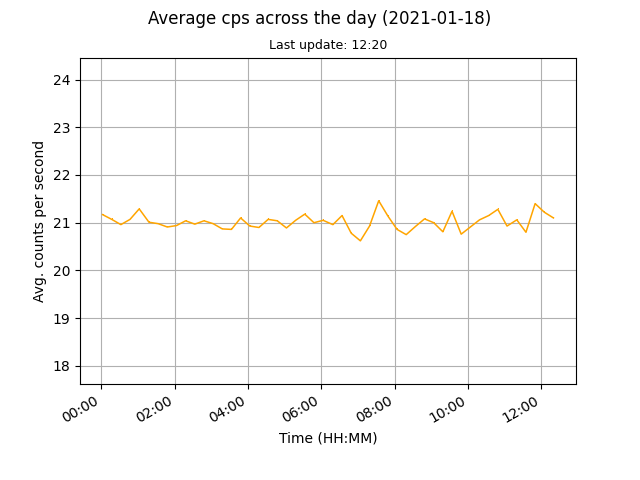
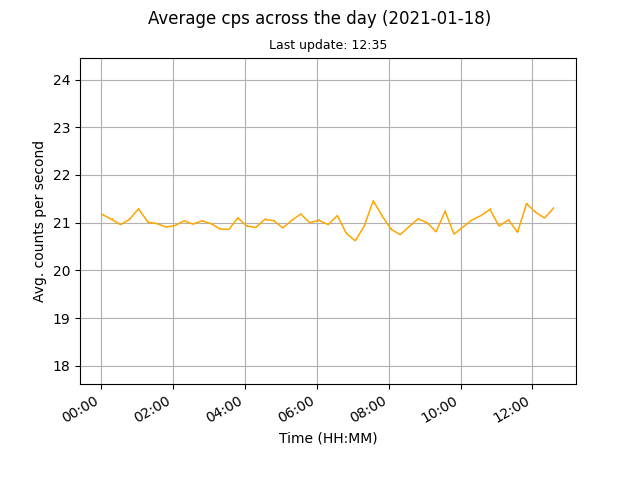
auto data update

diff --git a/docs/index.html b/docs/index.html
@@ -45,8 +45,8 @@
 	
 	<br>
 	
-	<p>Current counts per second (cps): 21.1</p>
-	<p>Last update: 2021-01-18, 12:20</p>
+	<p>Current counts per second (cps): 21.3</p>
+	<p>Last update: 2021-01-18, 12:35</p>
 
 	<p><a href="images/monthly.png"><img src="images/monthly.png" alt="Mothly avg cps data"></a><a href="images/daily.png"><img src="images/daily.png" alt="Daily avg cps data"></a></p>
 	
